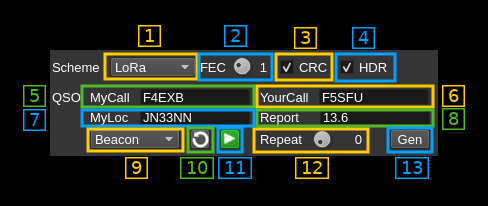
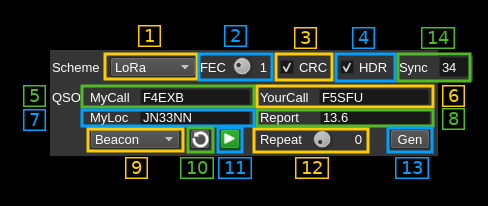
ChirpChat: doc updates. TTY: display null as underscore

Changed region(s): [[0.7992, 0.1165, 0.9836, 0.4078]]

diff --git a/plugins/channelrx/demodchirpchat/chirpchatdemodsink.cpp b/plugins/channelrx/demodchirpchat/chirpchatdemodsink.cpp
@@ -247,7 +247,7 @@ void ChirpChatDemodSink::processSample(const Complex& ci)
             m_fftSFD->transform();
 
             m_fftCounter = 0;
-            double magsq, magsqSFD;
+            double magsqPre, magsqSFD;
             double magsqTotal, magsqSFDTotal;
 
             unsigned int imaxSFD = argmax(
@@ -264,7 +264,7 @@ void ChirpChatDemodSink::processSample(const Complex& ci)
                 m_fft->out(),
                 m_fftInterpolation,
                 m_fftLength,
-                magsq,
+                magsqPre,
                 magsqSFDTotal,
                 m_spectrumBuffer,
                 m_fftInterpolation
@@ -273,7 +273,7 @@ void ChirpChatDemodSink::processSample(const Complex& ci)
             m_preambleHistory[m_chirpCount] = imax;
             m_chirpCount++;
 
-            if (magsq <  magsqSFD) // preamble drop
+            if (magsqPre <  magsqSFD) // preamble drop
             {
                 m_magsqTotalAvg(magsqSFDTotal);
 
@@ -288,11 +288,11 @@ void ChirpChatDemodSink::processSample(const Complex& ci)
                     {
                         m_syncWord = round(m_preambleHistory[m_chirpCount-2] / 8.0);
                         m_syncWord += 16 * round(m_preambleHistory[m_chirpCount-3] / 8.0);
-                        qDebug("ChirpChatDemodSink::processSample: SFD found:  up: %4u|%11.6f - down: %4u|%11.6f sync: %x", imax, magsq, imaxSFD, magsqSFD, m_syncWord);
+                        qDebug("ChirpChatDemodSink::processSample: SFD found:  pre: %4u|%11.6f - sfd: %4u|%11.6f sync: %x", imax, magsqPre, imaxSFD, magsqSFD, m_syncWord);
                     }
                     else
                     {
-                        qDebug("ChirpChatDemodSink::processSample: SFD found:  up: %4u|%11.6f - down: %4u|%11.6f", imax, magsq, imaxSFD, magsqSFD);
+                        qDebug("ChirpChatDemodSink::processSample: SFD found:  pre: %4u|%11.6f - sfd: %4u|%11.6f", imax, magsqPre, imaxSFD, magsqSFD);
                     }
 
                     int sadj = 0;
@@ -328,9 +328,9 @@ void ChirpChatDemodSink::processSample(const Complex& ci)
                     m_spectrumSink->feed(m_spectrumBuffer, m_nbSymbols);
                 }
 
-                qDebug("ChirpChatDemodSink::processSample: SFD search: up: %4u|%11.6f - down: %4u|%11.6f", imax, magsq, imaxSFD, magsqSFD);
+                qDebug("ChirpChatDemodSink::processSample: SFD search: pre: %4u|%11.6f - sfd: %4u|%11.6f", imax, magsqPre, imaxSFD, magsqSFD);
                 m_magsqTotalAvg(magsqTotal);
-                m_magsqOnAvg(magsq);
+                m_magsqOnAvg(magsqPre);
             }
         }
     }

diff --git a/plugins/channelrx/demodchirpchat/chirpchatdemoddecodertty.cpp b/plugins/channelrx/demodchirpchat/chirpchatdemoddecodertty.cpp
@@ -18,14 +18,14 @@
 #include "chirpchatdemoddecodertty.h"
 
 const char ChirpChatDemodDecoderTTY::ttyLetters[32] = {
-    '\0',   'E',    '\n',   'A',    ' ',    'S',    'I',    'U',
+    '_',    'E',    '\n',   'A',    ' ',    'S',    'I',    'U',
     '\r',   'D',    'R',    'J',    'N',    'F',    'C',    'K',
     'T',    'Z',    'L',    'W',    'H',    'Y',    'P',    'Q',
     'O',    'B',    'G',    ' ',    'M',    'X',    'V',    ' '
 };
 
 const char ChirpChatDemodDecoderTTY::ttyFigures[32] = { // U.S. standard
-    '\0',   '3',    '\n',   '-',    ' ',    '\a',   '8',    '7',
+    '_',    '3',    '\n',   '-',    ' ',    '\a',   '8',    '7',
     '\r',   '$',    '4',    '\'',   ',',    '!',    ':',    '(',
     '5',    '"',    ')',    '2',    '#',    '6',    '0',    '1',
     '9',    '?',    '&',    ' ',    '.',    '/',    ';',    ' '

diff --git a/plugins/channeltx/modchirpchat/readme.md b/plugins/channeltx/modchirpchat/readme.md
@@ -83,10 +83,6 @@ This is the log2 of the number of frequency shifts separating two consecutive sh
 
 In practice it is difficult on the Rx side to make correct decodes if only one FFT bin is used to code one symbol (DE=0). It is therefore recommended to use a factor of 1 or more.
 
-<h3>7: Sync word</h3>
-
-This is a LoRa specific feature and is the sync word (byte) to transmit entered as a 2 nibble hexadecimal number.
-
 <h3>8: Number of preamble chirps</h3>
 
 This is the number of preamble chirps to transmit that are used for the Rx to synchronize. The LoRa standard specifies it can be between 2 and 65535. Here it is limited to the 4 to 20 range that corresponds to realistic values. The RN2483 uses 6 preamble chirps. You may use 12 preamble chirps or more to facilitate signal acquisition with poor SNR on the Rx side.
@@ -192,6 +188,10 @@ This applies the QSO elements (10.5 to 10.8) to the placeholders in messages to 
   - **RRR**: `%1 %2 RRR`: `%1` is your call (10.6) and `%2` is my call (10.5)
   - **73**: `%1 %2 73`: `%1` is your call (10.6) and `%2` is my call (10.5)
   - **QSO text**: `%1 %2 %3`: `%1` is your call (10.6), `%2` is my call (10.5) and `%3` is the text specified as the free form text message
+
+<h4>10.14: Sync word</h4>
+
+This is a LoRa specific feature and is the sync word (byte) to transmit entered as a 2 nibble hexadecimal number.
 
 <h3>11: Message text</h3>
 

diff --git a/plugins/channelrx/demodchirpchat/readme.md b/plugins/channelrx/demodchirpchat/readme.md
@@ -33,7 +33,7 @@ This is the total power in the FFT of the de-chirped signal in dB. When no Chirp
 
 This is the bandwidth of the ChirpChat signal. Similarly to LoRa the signal sweeps between the lower and the upper frequency of this bandwidth. The sample rate of the ChirpChat signal in seconds is exactly one over this bandwidth in Hertz.
 
-In the LoRa standard there are 2 base bandwidths: 500 and 333.333 kHz. A 400 kHz base has been added. Possible bandwidths are obtained by a division of these base bandwidths by a power of two from 1 to 64. Extra divisor of 128 is provided to achieve smaller bandwidths that can fit in a SSB channel. Finally special divisors from a 384 kHz base are provided to allow even more narrow bandwidths
+In the LoRa standard there are 2 base bandwidths: 500 and 333.333 kHz. A 400 kHz base has been added. Possible bandwidths are obtained by a division of these base bandwidths by a power of two from 1 to 64. Extra divisor of 128 is provided to achieve smaller bandwidths that can fit in a SSB channel. Finally special divisors from a 384 kHz base are provided to allow even more narrow bandwidths.
 
 Thus available bandwidths are:
 
